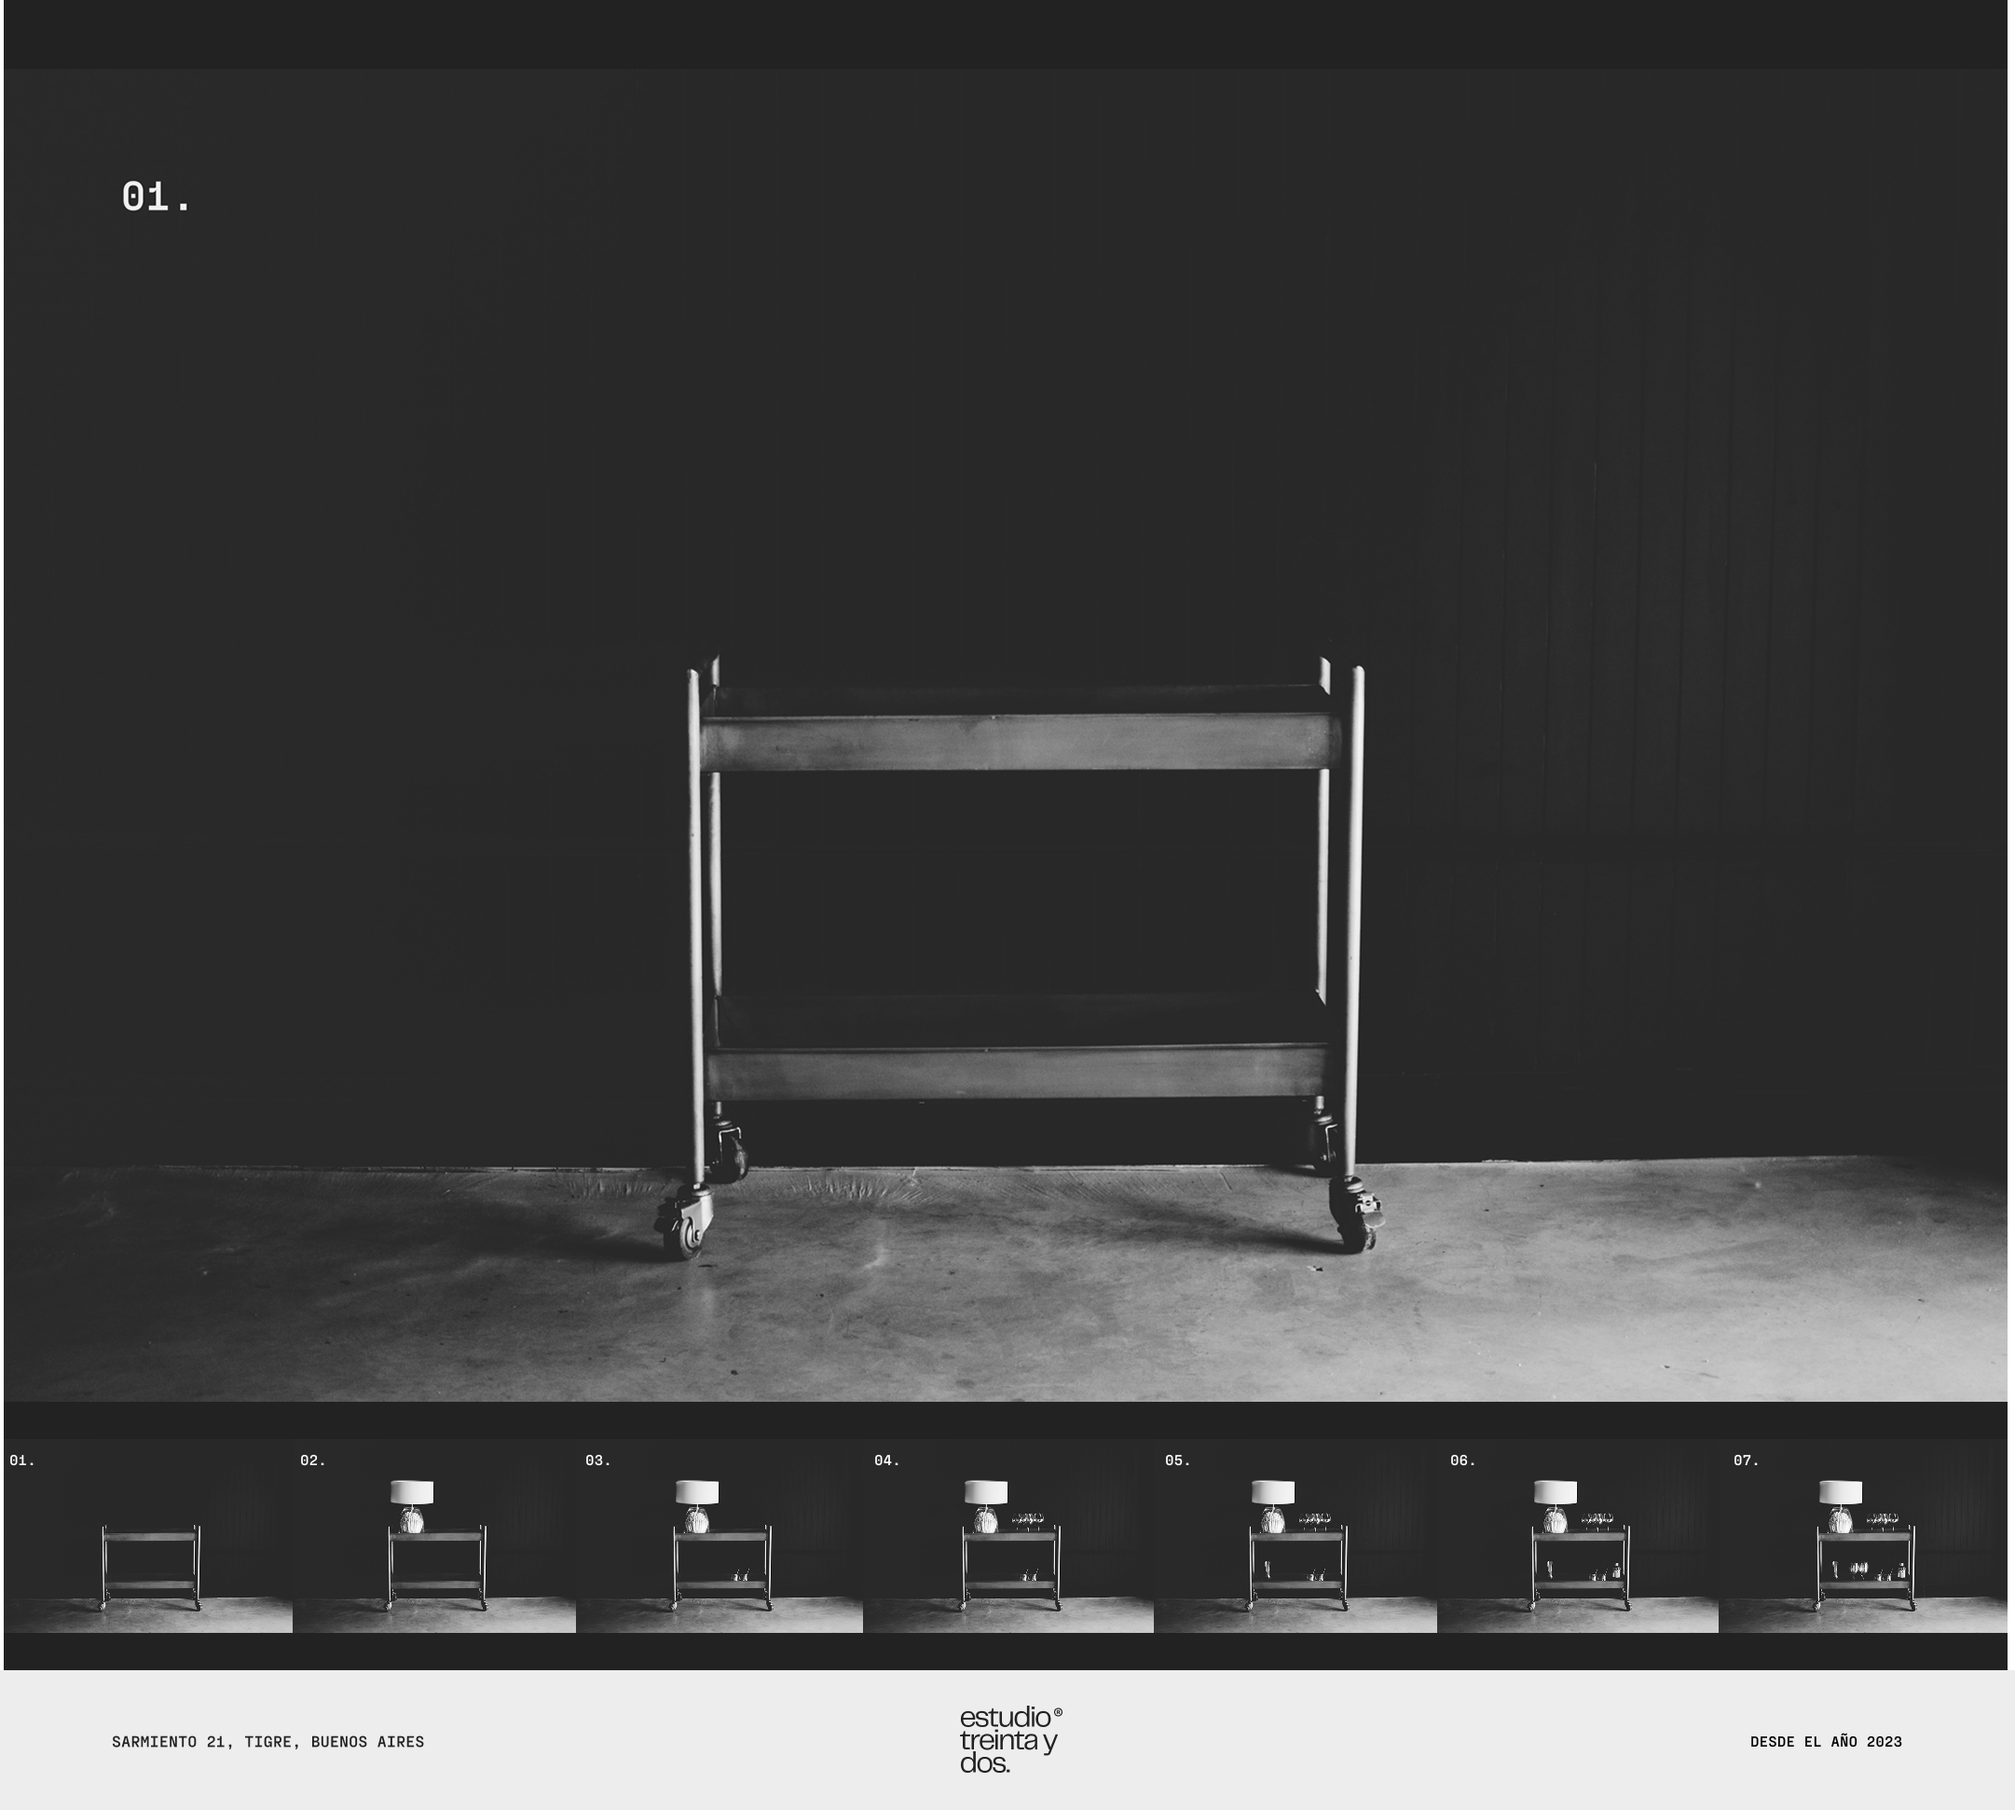
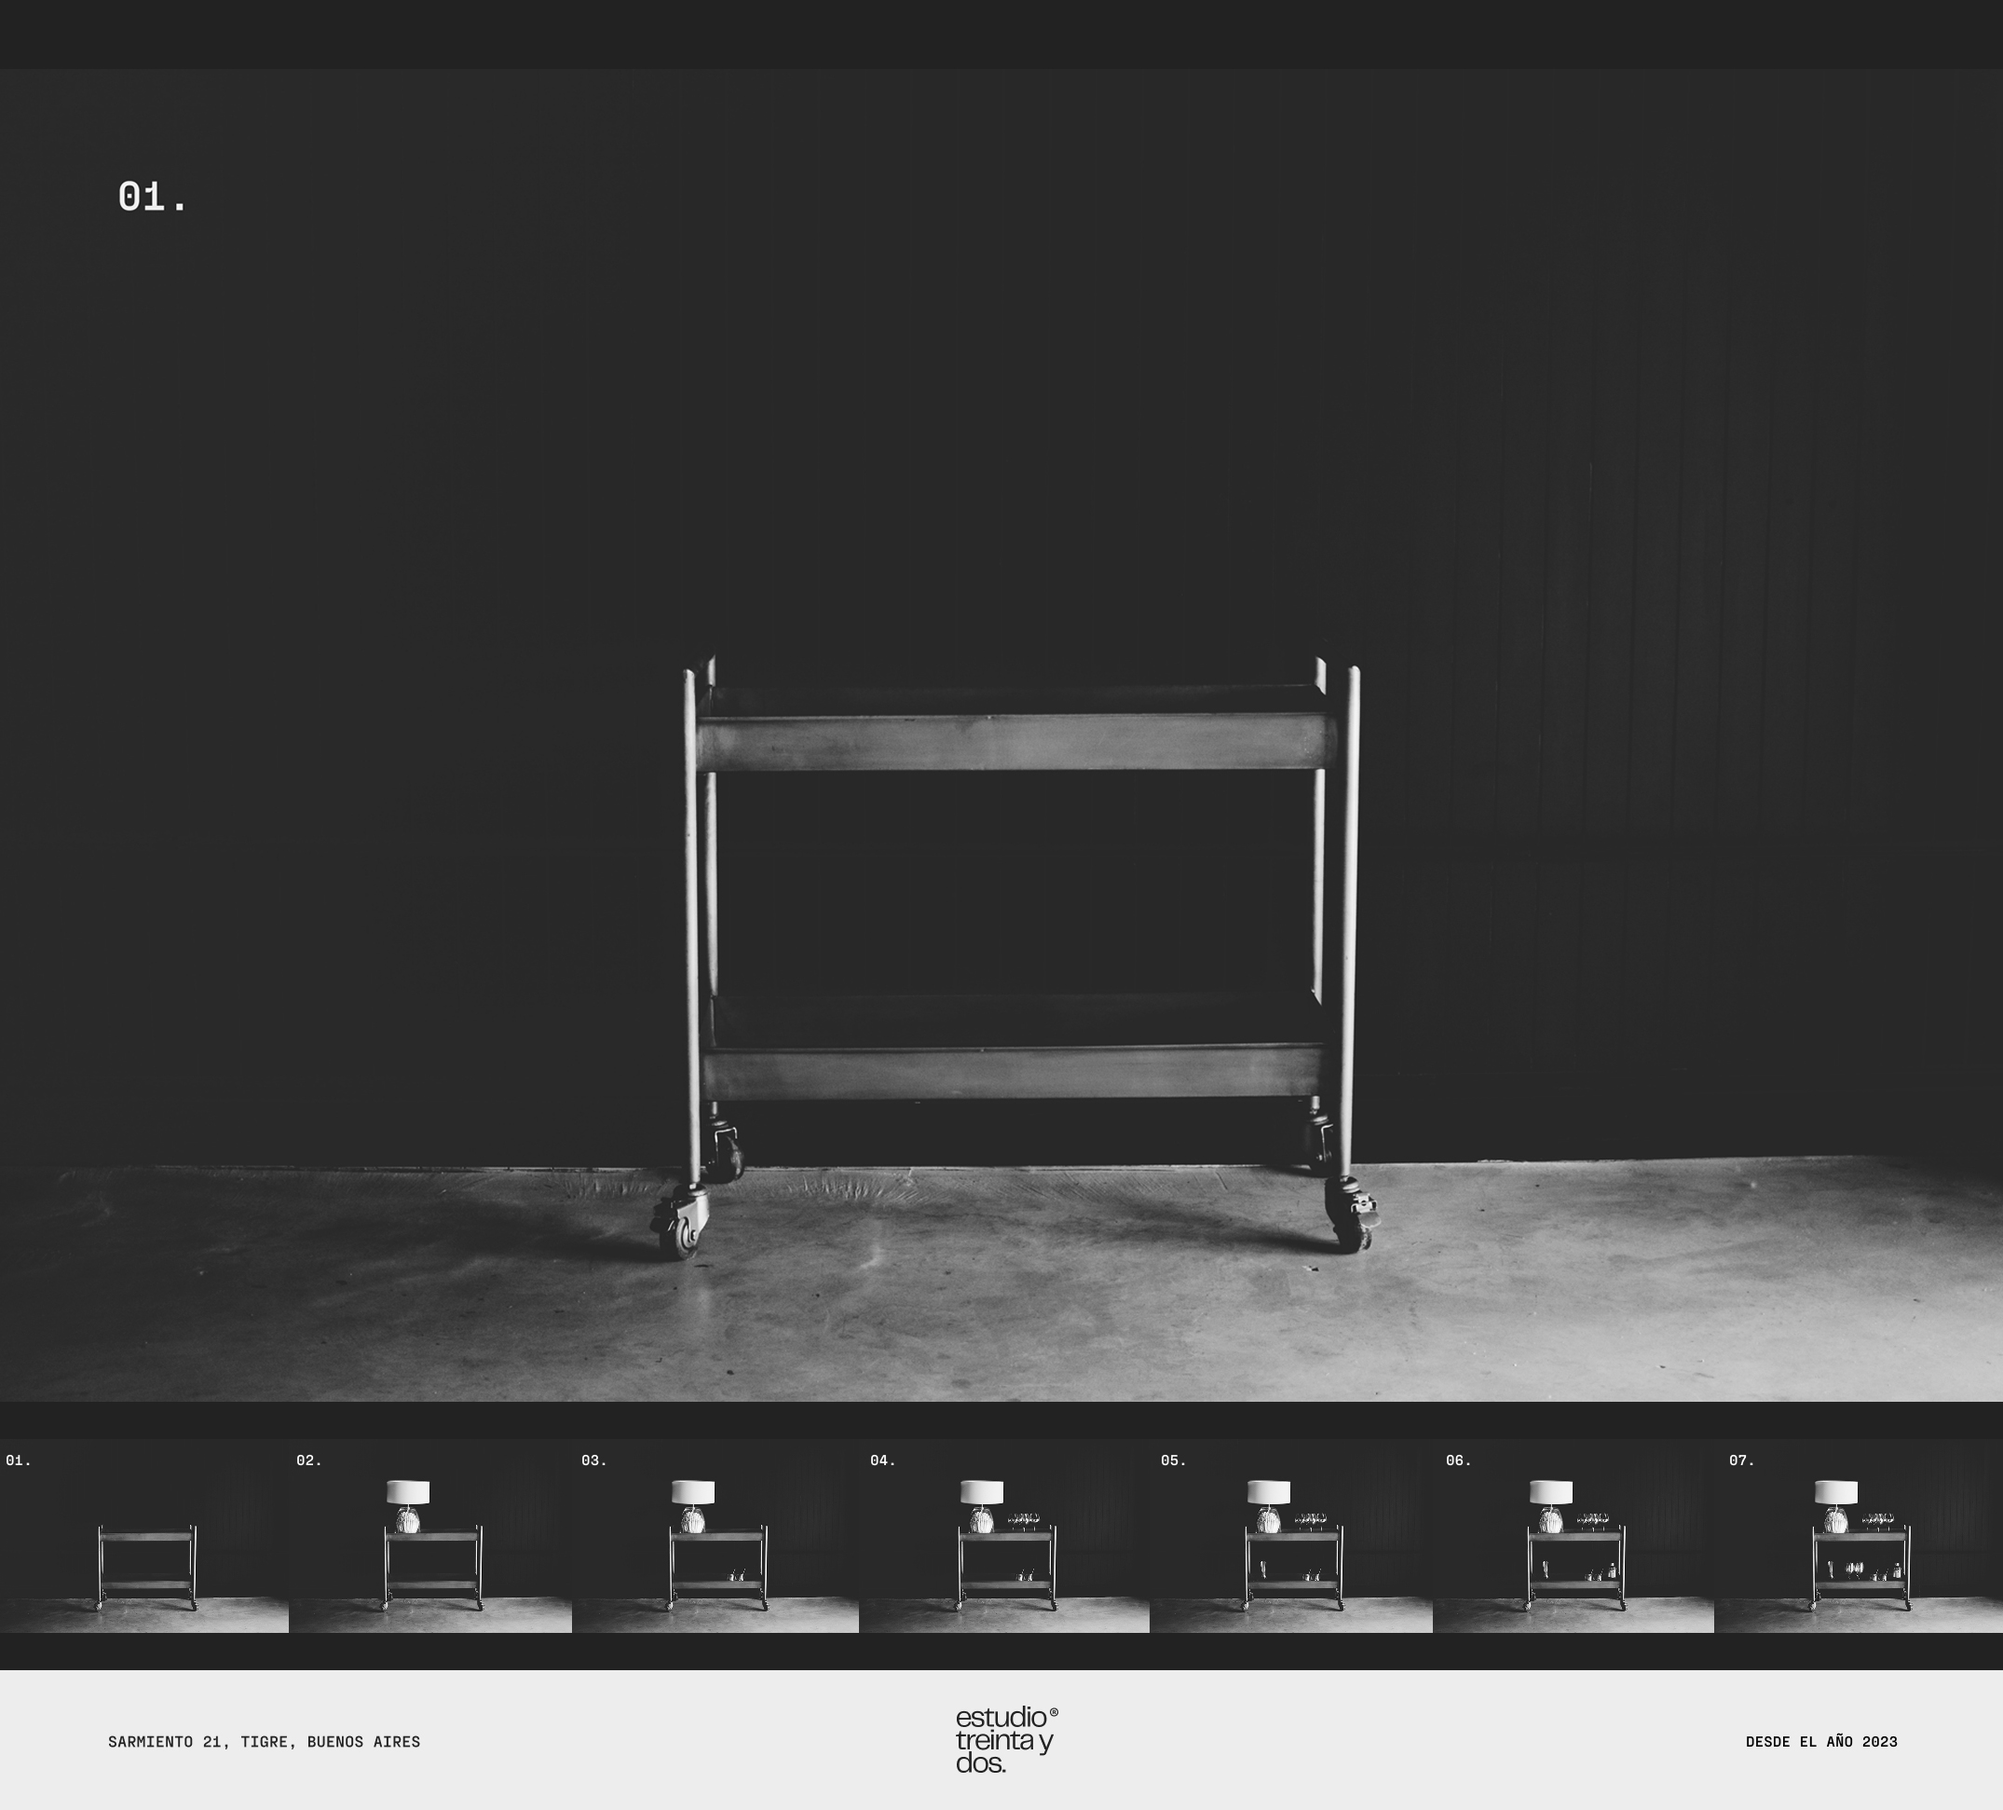
update

diff --git a/work/estudio32/index.html b/work/estudio32/index.html
@@ -60,7 +60,7 @@
                            <div class="tt-col-md-12 anim-fadeinup">
                               <img
                                  src="../../assets/work/estudio32/estudio32-1.jpg"
-                                 alt="Frog Bazar"
+                                 alt="Estudio 32"
                                  class="full-min"
                               />
                               <a href="#details" class="scroll">
@@ -84,56 +84,21 @@
                            <div class="tt-col-md-6 anim-fadeinup">
                               <img
                                  src="../../assets/work/estudio32/estudio32-2-a.jpg"
-                                 alt="Frog Bazar"
-                              />
-
-                              <img
-                                 src="../../assets/work/frogbazar/frogbazar-mob1.png"
-                                 alt="Frog Bazar"
-                                 class="mob mob1"
-                              /><img
-                                 src="../../assets/work/frogbazar/frogbazar-mob2.png"
-                                 alt="Frog Bazar"
-                                 class="mob mob2"
+                                 alt="Estudio 32"
                               />
                            </div>
                            <div class="tt-col-md-6 anim-fadeinup">
                               <img
-                                 src="../../assets/work/frogbazar/frogbazar-2-b.jpg"
-                                 alt="Frog Bazar"
-                              />
-                              <img
-                                 src="../../assets/work/frogbazar/frogbazar-2-c.jpg"
-                                 alt="Frog Bazar"
-                              />
-                              <img
-                                 src="../../assets/work/frogbazar/frogbazar-2-d.png"
-                                 alt="Frog Bazar"
-                                 class="full-min"
-                              />
-
-                              <img
-                                 src="../../assets/work/frogbazar/frogbazar-mob3.png"
-                                 alt="Frog Bazar"
-                                 class="mob mob3"
-                              />
-                              <img
-                                 src="../../assets/work/frogbazar/frogbazar-mob4.png"
-                                 alt="Frog Bazar"
-                                 class="mob mob4"
+                                 src="../../assets/work/estudio32/estudio32-2-b.png"
+                                 alt="Estudio 32"
                               />
                            </div>
                         </div>
                         <div class="tt-row">
                            <div class="tt-col-md-12 anim-fadeinup">
                               <img
-                                 src="../../assets/work/frogbazar/frogbazar-3.jpg"
-                                 alt="Frog Bazar"
-                                 class="full-min"
-                              />
-                              <img
-                                 src="../../assets/work/frogbazar/frogbazar-4.jpg"
-                                 alt="Frog Bazar"
+                                 src="../../assets/work/estudio32/estudio32-3.jpg"
+                                 alt="Estudio 32"
                                  class="full-min"
                               />
                            </div>

diff --git a/assets/css/work.css b/assets/css/work.css
@@ -29,33 +29,6 @@
    letter-spacing: 0.02em;
 }
 
-body.work .tt-wrap {
-   display: flex;
-   flex-direction: column;
-}
-
-body.work .tt-wrap .tt-col-md-12 {
-   display: flex;
-   flex-direction: column;
-   align-items: center;
-}
-body.work .tt-wrap .tt-col-md-12 img.full-min {
-   max-width: 1075px;
-}
-
-body.work .tt-wrap .tt-col-md-6 {
-   display: flex;
-   flex-direction: column;
-   padding: 0;
-   row-gap: 30px;
-}
-body.work .tt-wrap .tt-col-md-6:first-child {
-   align-items: flex-end;
-}
-body.work .tt-wrap .tt-col-md-6:last-child {
-   align-items: flex-start;
-}
-
 .scroll {
    display: flex;
    flex-direction: column;
@@ -118,9 +91,32 @@ body.work .tt-wrap .tt-col-md-6:last-child {
    margin-top: 4px;
 }
 
-/* FROG BAZAR */
+/* WORK */
+body.work .tt-wrap {
+   display: flex;
+   flex-direction: column;
+}
 
-body.work.frogbazar .tt-wrap .tt-col-md-6 img {
+body.work .tt-wrap .tt-col-md-12 {
+   display: flex;
+   flex-direction: column;
+   align-items: center;
+}
+
+body.work .tt-wrap .tt-col-md-6 {
+   display: flex;
+   flex-direction: column;
+   padding: 0;
+   row-gap: 30px;
+}
+body.work .tt-wrap .tt-col-md-6:first-child {
+   align-items: flex-end;
+}
+body.work .tt-wrap .tt-col-md-6:last-child {
+   align-items: flex-start;
+}
+
+body.work .tt-wrap .tt-col-md-6 img {
    max-width: 580px;
    height: -webkit-fit-content;
    height: -moz-fit-content;
@@ -128,7 +124,21 @@ body.work.frogbazar .tt-wrap .tt-col-md-6 img {
    padding: 0 40px;
 }
 
-body.work.frogbazar .tt-wrap .tt-col-md-6:last-child img.full-min {
+img.full-min {
+   max-width: 1080px;
+}
+img.full-pad {
+   padding: 0;
+}
+img.full-pad-left {
+   padding-left: 0;
+}
+img.full-pad-right {
+   padding-right: 0;
+}
+
+/* FROG BAZAR */
+body.work.frogbazar .tt-wrap .tt-col-md-6:last-child img:nth-child(3) {
    max-width: 750px;
    padding-left: 0;
    margin-left: -40px;
@@ -155,4 +165,18 @@ body.work.frogbazar img.mob.mob3 {
 body.work.frogbazar img.mob.mob4 {
    right: -9%;
    top: 44%;
+}
+
+/* ESTUDIO 32 */
+body.work.estudio32 .tt-wrap #details {
+   margin-bottom: 24px;
+}
+body.work.estudio32 .tt-wrap #details img {
+   max-height: 1823px;
+}
+body.work.estudio32 .tt-wrap .tt-col-md-6:last-child img:nth-child(1) {
+   padding-left: 0;
+   padding-right: 0;
+   max-width: unset;
+   margin-left: -44px;
 }

diff --git a/work/frogbazar/index.html b/work/frogbazar/index.html
@@ -109,7 +109,6 @@
                               <img
                                  src="../../assets/work/frogbazar/frogbazar-2-d.png"
                                  alt="Frog Bazar"
-                                 class="full-min"
                               />
 
                               <img
